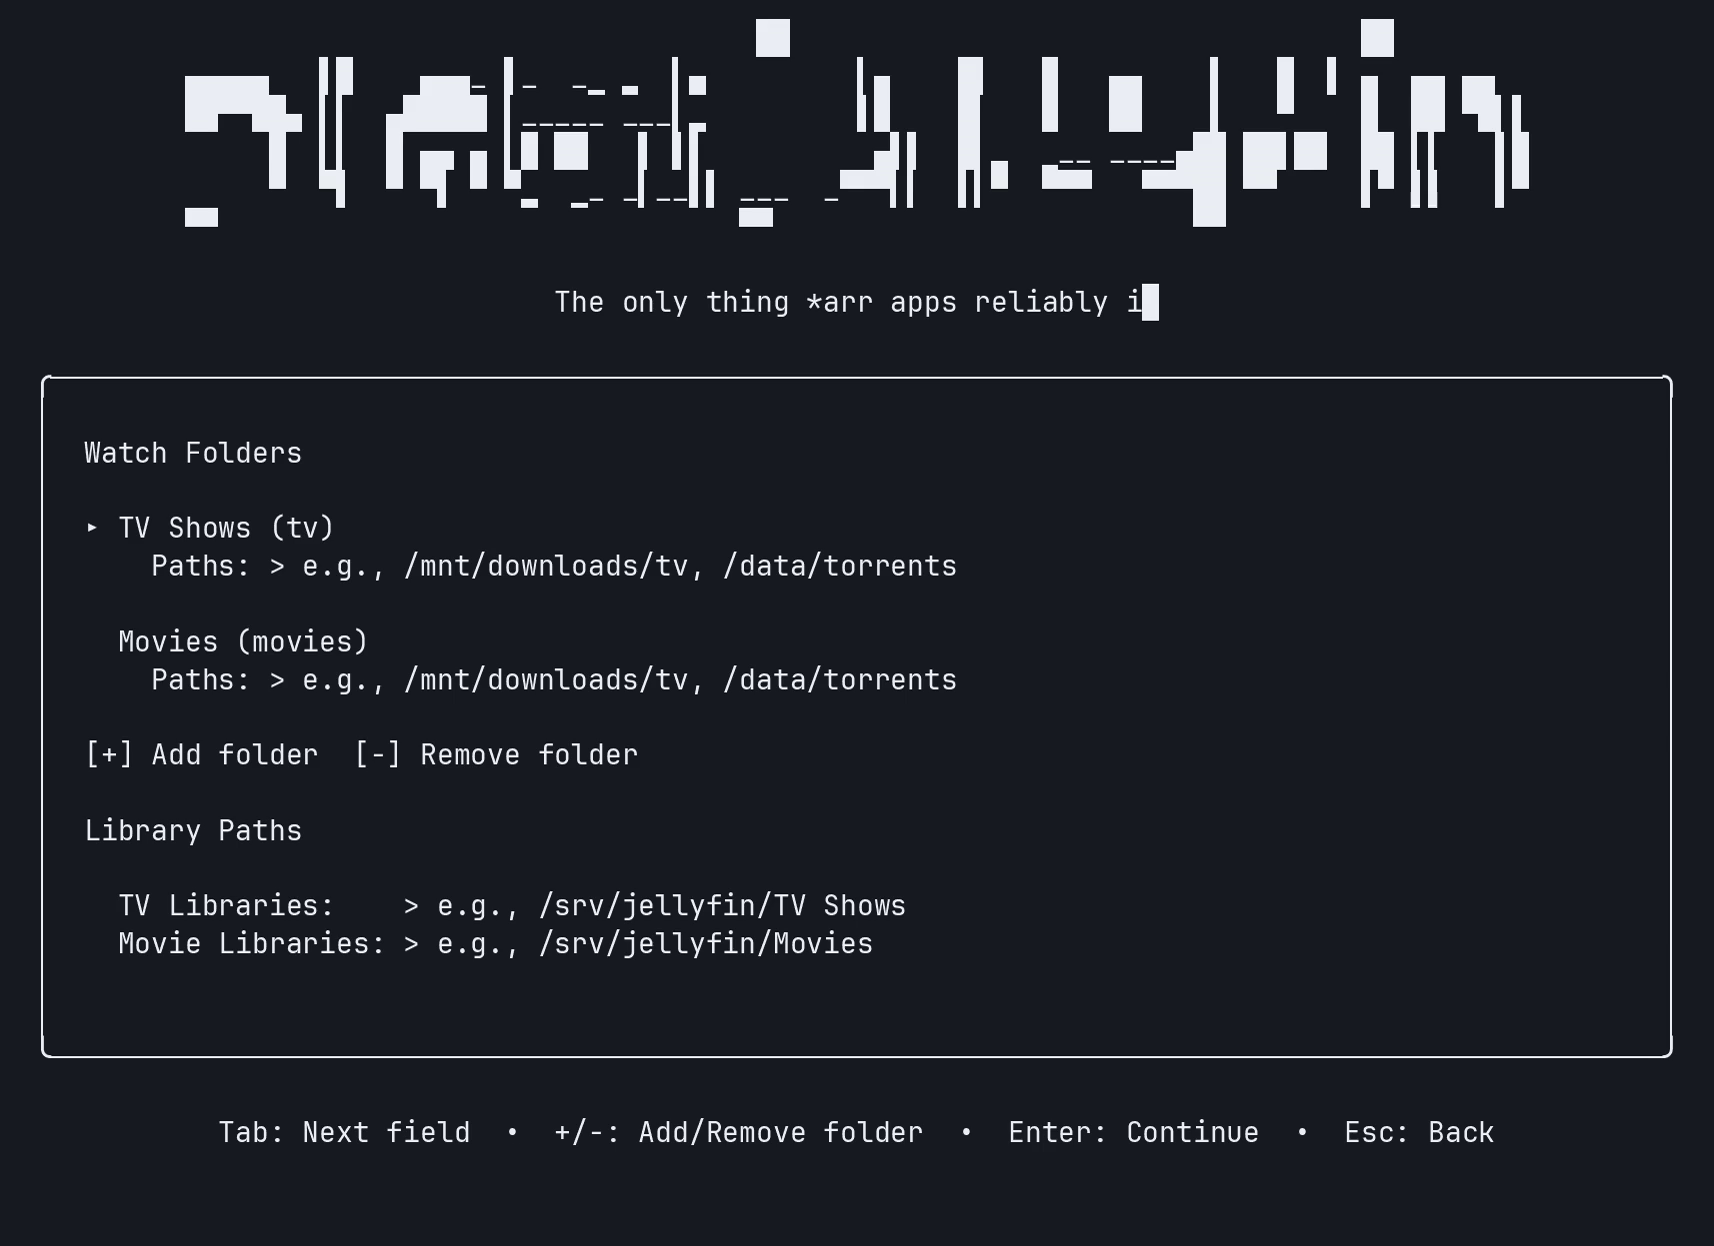
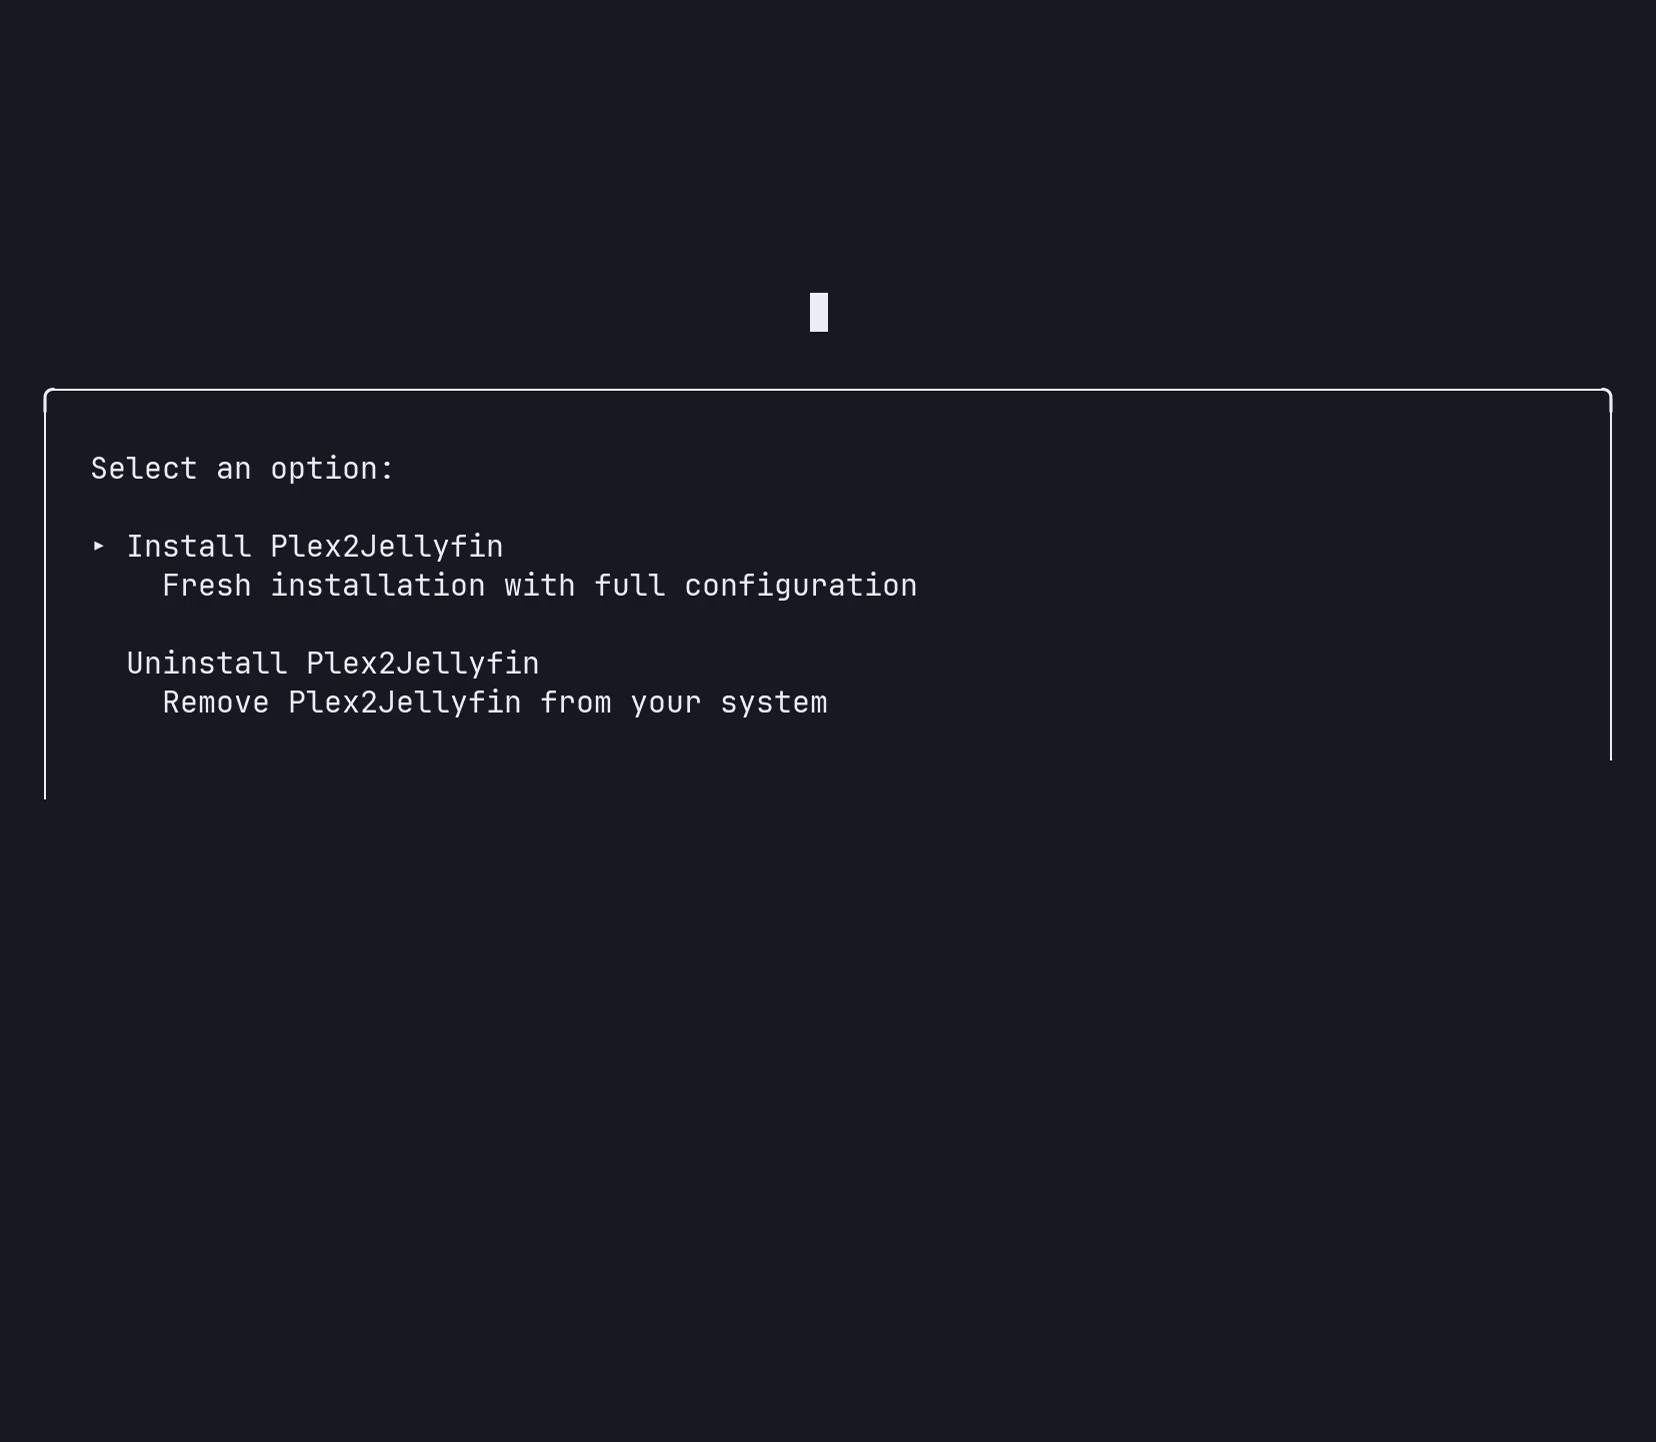
docs: drop broken README videos and retighten terminal GIFs
GitHub strips relative MP4 embeds, so remove the showcase video from
the README and rely on screenshots there. Re-record TUI/CLI GIFs at
90x36 (≈1.15 aspect) so the UI is not lost in ultrawide padding.

diff --git a/scripts/showcase/drive_cli.py b/scripts/showcase/drive_cli.py
@@ -26,7 +26,7 @@ def answer(child: pexpect.spawn, label: str, value: str, timeout: float = 25) ->
     if value:
         for ch in value:
             child.send(ch)
-            time.sleep(0.045)
+            time.sleep(0.06)
         pause(0.2)
     child.send("\r")
     pause(0.55)

diff --git a/scripts/showcase/drive_tui.py b/scripts/showcase/drive_tui.py
@@ -17,7 +17,7 @@ def pause(s: float = 0.4) -> None:
     time.sleep(s)
 
 
-def type_slow(child: pexpect.spawn, text: str, delay: float = 0.05) -> None:
+def type_slow(child: pexpect.spawn, text: str, delay: float = 0.055) -> None:
     for ch in text:
         child.send(ch)
         time.sleep(delay)

diff --git a/README.md b/README.md
@@ -274,14 +274,6 @@ dir_mode  = "0755"
 ### Dashboard
 
 <p align="center">
-  <a href="assets/showcase.mp4">
-    <img src="assets/showcase-poster.png" alt="Dashboard showcase — click for MP4" width="800" />
-  </a>
-  <br />
-  <sub><a href="assets/showcase.mp4">Play showcase video (MP4)</a></sub>
-</p>
-
-<p align="center">
   <img src="assets/screenshot-dashboard.png" alt="Dashboard" width="800" />
 </p>
 
@@ -294,15 +286,13 @@ dir_mode  = "0755"
 ### TUI installer
 
 <p align="center">
-  <img src="assets/tui-installer.gif" alt="TUI installer" width="960" />
-  <br />
-  <sub><a href="assets/tui-installer.mp4">Higher-quality MP4</a></sub>
+  <img src="assets/tui-installer.gif" alt="TUI installer" width="720" />
 </p>
 
 ### CLI setup and scan
 
 <p align="center">
-  <img src="assets/cli-setup-scan.gif" alt="CLI setup and scan" width="960" />
+  <img src="assets/cli-setup-scan.gif" alt="CLI setup and scan" width="720" />
 </p>
 
 ## License